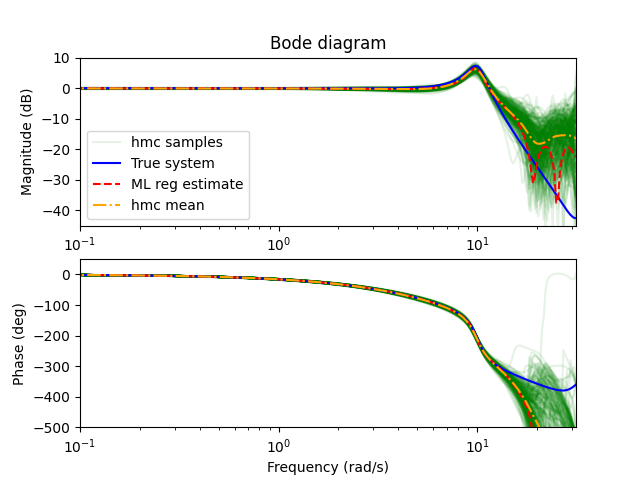
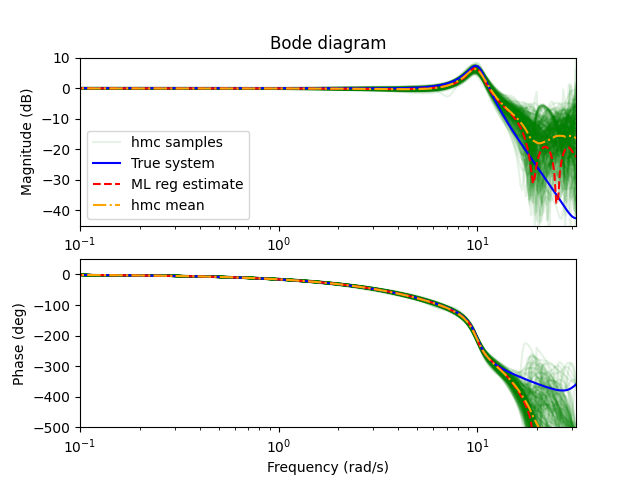
finalises examples

Changed region(s): [[0.7188, 0.1562, 0.9062, 0.4688], [0.75, 0.7188, 0.9062, 0.9062], [0.6875, 0.625, 0.7188, 0.6562]]

diff --git a/example2_oe.py b/example2_oe.py
@@ -50,7 +50,7 @@ yhat_mean = np.mean(yhat, axis=0)
 yhat_upper_ci = np.percentile(yhat, 97.5, axis=0)
 yhat_lower_ci = np.percentile(yhat, 2.5, axis=0)
 
-MF_hmc = 100*(1-np.sum(np.power(y_val[11:]-yhat_mean[10:],2))/np.sum(np.power(y_val[11:],2)))
+MF_hmc = 100*(1-np.sum(np.power(y_val[10:]-yhat_mean[10:],2))/np.sum(np.power(y_val[10:],2)))
 
 print('Model fit of hmc estimate = ', MF_hmc)
 
@@ -90,6 +90,8 @@ F_ML = data['f_ml']
 B_ML = data['b_ml']
 F_ML2 = data['f_ml2']
 B_ML2 = data['b_ml2']
+F_unit = data['f_unit']
+B_unit = data['b_unit']
 
 
 def plot_dbode_ML(num_samples,den_samples,num_true,den_true,num_ML,den_ML,num_ML2,den_ML2,Ts,omega,no_plot=300, max_samples=1000, save=False):
@@ -163,6 +165,7 @@ def plot_dbode_ML(num_samples,den_samples,num_true,den_true,num_ML,den_ML,num_ML
 plot_dbode_ML(b_coef_traces[:,-1::-1],f_coef_traces[:,-1::-1],b_true.flatten(),f_true.flatten(),B_ML.flatten(),F_ML.flatten(),B_ML2.flatten(),F_ML2.flatten(),Ts,w_plot,save=True)
 import scipy.signal as signal
 w, _ = signal.dfreqresp((b_true.flatten(),f_true.flatten(), Ts))
+# plot_d_nyquist(b_coef_traces[:,-1::-1],f_coef_traces[:,-1::-1],b_true.flatten(),f_true.flatten(),B_unit.flatten(),F_unit.flatten(),Ts,w, no_plot=300,xlims=[-2.75, 1.5], ylims=[-2,2], save='figures/oe_nyquist.png')
 plot_d_nyquist(b_coef_traces[:,-1::-1],f_coef_traces[:,-1::-1],b_true.flatten(),f_true.flatten(),B_ML2.flatten(),F_ML2.flatten(),Ts,w, no_plot=300,xlims=[-2.75, 1.5], ylims=[-2,2], save='figures/oe_nyquist.png')
 
 

diff --git a/oe.py b/oe.py
@@ -39,11 +39,8 @@ def run_oe_hmc(data_path, input_order, output_order, hot_start=False, iter=6000,
     y_est = data['y_estimation'].flatten()
     u_est = data['u_estimation'].flatten()
 
-    ## TODO: FIX this hack
-    # y_val = data['y_validation'].flatten()
-    # u_val = data['u_validation'].flatten()
-    y_val = data['y_estimation'].flatten()
-    u_val = data['u_estimation'].flatten()
+    y_val = data['y_validation'].flatten()
+    u_val = data['u_validation'].flatten()
 
     # Run Stan
     if hot_start:
@@ -51,9 +48,9 @@ def run_oe_hmc(data_path, input_order, output_order, hot_start=False, iter=6000,
             f_true = data['f_ml2'].flatten()[1:output_order+1]
             b_true = data['b_ml2'].flatten()
             sig_e = data['sig_e_ML2'].flatten()
-            output = dict(f_coefs=np.flip(f_true),# * np.random.uniform(0.8, 1.2, len(f_true)),
-                          b_coefs=np.flip(b_true),#* np.random.uniform(0.8, 1.2, len(b_true)),
-                          r=(sig_e)[0],# * np.random.uniform(0.8, 1.2))[0],
+            output = dict(f_coefs=np.flip(f_true)* np.random.uniform(0.9, 1.1, len(f_true)),
+                          b_coefs=np.flip(b_true)* np.random.uniform(0.9, 1.1, len(b_true)),
+                          r=(sig_e * np.random.uniform(0.8, 1.2))[0],
                           )
             return output
     else:

diff --git a/example3_outliers.py b/example3_outliers.py
@@ -40,7 +40,7 @@ output_order = 10        # gives the terms a_0 * y_{k-1} + ... + a_{output_order
 data = loadmat(data_path)
 y_val = data['y_validation'].flatten()
 
-(fit,traces) = run_arx_hmc(data_path, input_order, output_order,hot_start=True, prior='st',iter=6000)
+(fit,traces) = run_arx_hmc(data_path, input_order, output_order,hot_start=True, prior='st',iter=8000)
 
 
 yhat = traces['y_hat']
@@ -149,5 +149,5 @@ def plot_dbode_ML(num_samples,den_samples,num_true,den_true,num_ML,den_ML,Ts,ome
 
 
 plot_dbode_ML(b_coef_traces,a_coef_traces,b_true,a_true,b_ML,a_ML,Ts,w_plot)
-plot_d_nyquist(b_coef_traces,a_coef_traces,b_true,a_true,b_ML,a_ML,Ts,w_plot, no_plot=600, save='figures/arx_outlier_nyquist.png')
+# plot_d_nyquist(b_coef_traces,a_coef_traces,b_true,a_true,b_ML,a_ML,Ts,w_plot, no_plot=600, save='figures/arx_outlier_nyquist.png')
 # w, mag_ML, phase_ML = signal.dbode((b_ML.flatten(), a_ML.flatten(), Ts), w_plot)

diff --git a/matlab/example2_oe.m b/matlab/example2_oe.m
@@ -83,9 +83,21 @@ sig_e_ML2 = sqrt(m1.NoiseVariance);
 f_true = A;
 b_true = B;
 
+%%
+figure(4)
+clf
+bode(tf(b_true,f_true,delta))
+hold on
+bode(tf(b_ml2,f_ml2,delta))
+bode(tf(Gest.B,Gest.A,delta))
+hold off
+
+
+%%
+
 save('../data/example2_oe.mat','y_estimation', 'u_estimation', 'y_validation',...
     'u_validation','yhat','f_ml','b_ml','f_ml2','b_ml2','sig_e_ML','sig_e_ML2',...
-    'sig_e','f_true','b_true')
+    'sig_e','f_true','b_true','f_unit','b_unit')
 %% plot
 figure(1)
 clf

diff --git a/example1_arx_part2.py b/example1_arx_part2.py
@@ -232,4 +232,5 @@ plot_dbode_ML(b_hs,a_hs,b_true,a_true,b_ML,a_ML,Ts,w_plot, save=True)
 from scipy import signal
 
 
+
 plot_d_nyquist(b_hs,a_hs,b_true,a_true,b_ML,a_ML,Ts,w_plot, save='figures/arx_nyquist.png')

diff --git a/matlab/example1_arx_part1.m b/matlab/example1_arx_part1.m
@@ -97,6 +97,7 @@ clf
 bode(m0)
 hold on
 bode(modelEstimate)
+bode(tf(Gest.B,Gest.A,Ts))
 
 hold off
 legend('True sys','Maximum likelihood estimate')
